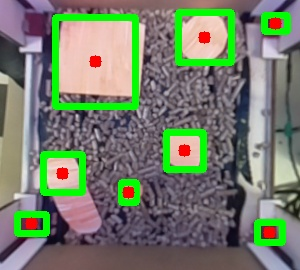
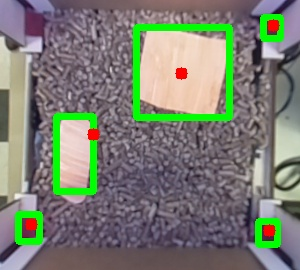
Update

diff --git a/Code/PiCamera/Object_Detection_Files/FonctionsCam.py b/Code/PiCamera/Object_Detection_Files/FonctionsCam.py
@@ -74,7 +74,7 @@ def findZones(contours,LimiteAireMin,LimiteAireMax,image):
       Liste.append(Z)
 
       #Affiche les zones sur l'image
-      cv.rectangle(image, (x, y), (x+w, y+h),(0,255,0),5)
+      cv.rectangle(image, (x, y), (x+h, y+w),(0,255,0),5)
       cv.circle(image,(x+(w//2),y+(h//2)),1,(0,0,255),10)
   return Liste
 
@@ -82,7 +82,7 @@ def Scan():
   print("Scan en cours...")
   "Ouverture des LED:"
   GPIO.output(LED, GPIO.HIGH)
-  time.sleep(0.5)
+  time.sleep(1)
   "Variables:"
   #Assignation de la caméra pi
   cam = cv.VideoCapture(0)
@@ -141,7 +141,7 @@ def Scan():
 
   #Trouver toute les zones souilées qui dépasse un aire minimum
   # print("Aire Souille")
-  ListeSouille = findZones(contoursSouille,120,8000,im)
+  ListeSouille = findZones(contoursSouille,200,8000,im)
 
   #Trouver toute les Ancrages qui dépasse un aire minimum
   # print("Aire Ancrage")
@@ -183,8 +183,8 @@ def Scan():
   # print('AireSouille : {}'.format(AireSouille))
 
   AireTotale = 30000
-  # print('PourHMI: {}'.format((AireSouille*100/AireTotale)))
-  if((AireSouille*100/AireTotale) >= 20):
+  print('PourHMI: {}'.format((AireSouille*100/AireTotale)))
+  if((AireSouille*100/AireTotale) >= 0):
     # Vidage de la cage
     if(Pourcentage <= 40):
       Vidange = 1
@@ -196,18 +196,19 @@ def Scan():
     Vidange = 0    
   
   print('BitVidange : {}, NbrLapin : {}'.format(Vidange,nbrLapin))
+  "Fermeture des LED:"
+  GPIO.output(LED, GPIO.LOW)
   #Affiche les images pour débugage
-  # cv.imshow('Image Mask Ancrage', maskAncrage)
-  # cv.imshow('Image Mask Lapin', maskLapin)
-  # cv.imshow('Image Mask Souille', maskSouille)
-  # cv.imshow('Image HSV', hsv)
+  #cv.imshow('Image Mask Ancrage', maskAncrage)
+  #cv.imshow('Image Mask Lapin', maskLapin)
+  #cv.imshow('Image Mask Souille', maskSouille)
+  #cv.imshow('Image HSV', hsv)
   #cv.imshow('Image Contour', im)
   #cv.waitKey(0)
   #cv.destroyAllWindows()
   filenameC = 'LitiereContours' + '.jpg'
   cv.imwrite(filenameC, im) 
-  "Fermeture des LED:"
-  GPIO.output(LED, GPIO.LOW)
+  
 
   print("Scan terminé!")
   "Retourne la valeur en % à vider"

diff --git a/Code/Main/init_stop_Sequences.py b/Code/Main/init_stop_Sequences.py
@@ -54,10 +54,9 @@ def init_opencr(ser):
 
 
 def init_camera():
-    """Initialize the OpenCR
+    """Initialize the camera
 
-    Send initilization commands
-    Wait for message for confirmation
+    Call function to initialize GPIOs
     """
 
     print("Initialization the camera\n")
@@ -84,6 +83,7 @@ def activate_state(ser):
 
     Send starting commands to the OpenCR.
     Wait for messages for confirmation
+    Return True to activate the thread
     """
 
     print_sent_data(send_data(ser, "START"))
@@ -101,6 +101,7 @@ def clean_state(ser):
 
     Send cleaning commands to the OpenCR.
     Wait for messages for confirmation
+    Return boolean to verify to washing process is over and percentage of ... pushed
     """
     V,N = funCam.Scan()
     global qteP

diff --git a/Code/PiQt/userInterface.py b/Code/PiQt/userInterface.py
@@ -168,7 +168,7 @@ class MyWindow(QMainWindow):
         Call function opening the pop-up window
         """
 
-        self.dialogbox
+        self.dialogbox()
         iss.trash_state(ser)
 
 

diff --git a/Code/PiCamera/Object_Detection_Files/CodeCamera.py b/Code/PiCamera/Object_Detection_Files/CodeCamera.py
@@ -4,5 +4,4 @@ import FonctionsCam as funcam
 funcam.InitGPIO()
 P,N = funcam.Scan()
 print(P)
-print(N)
-  
+print(N)  
